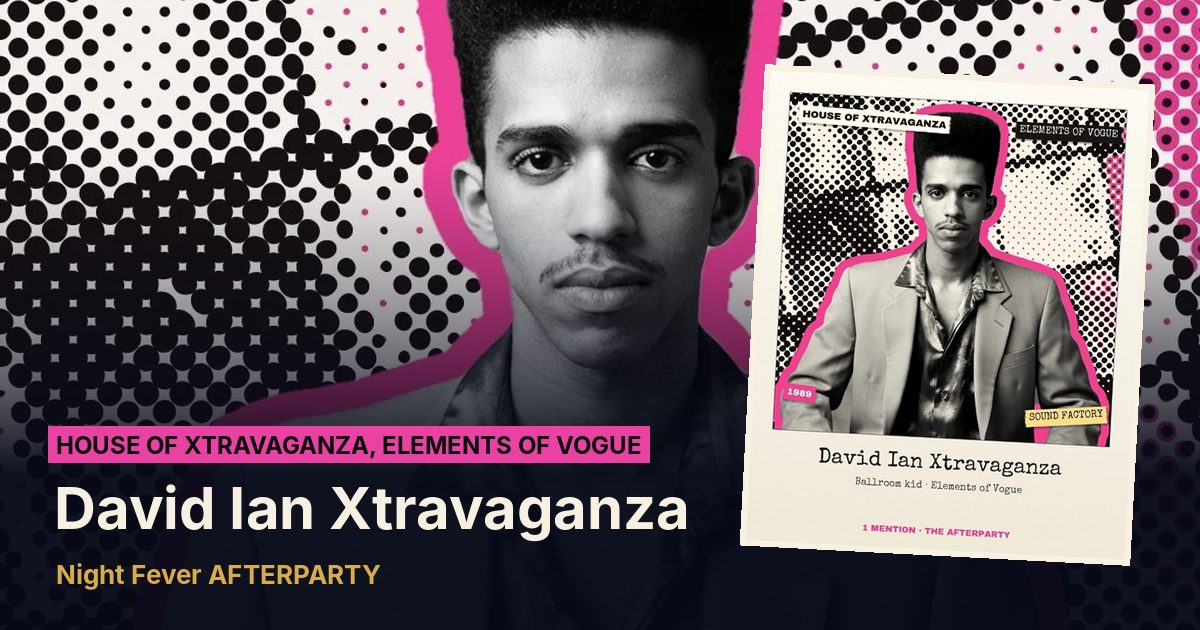
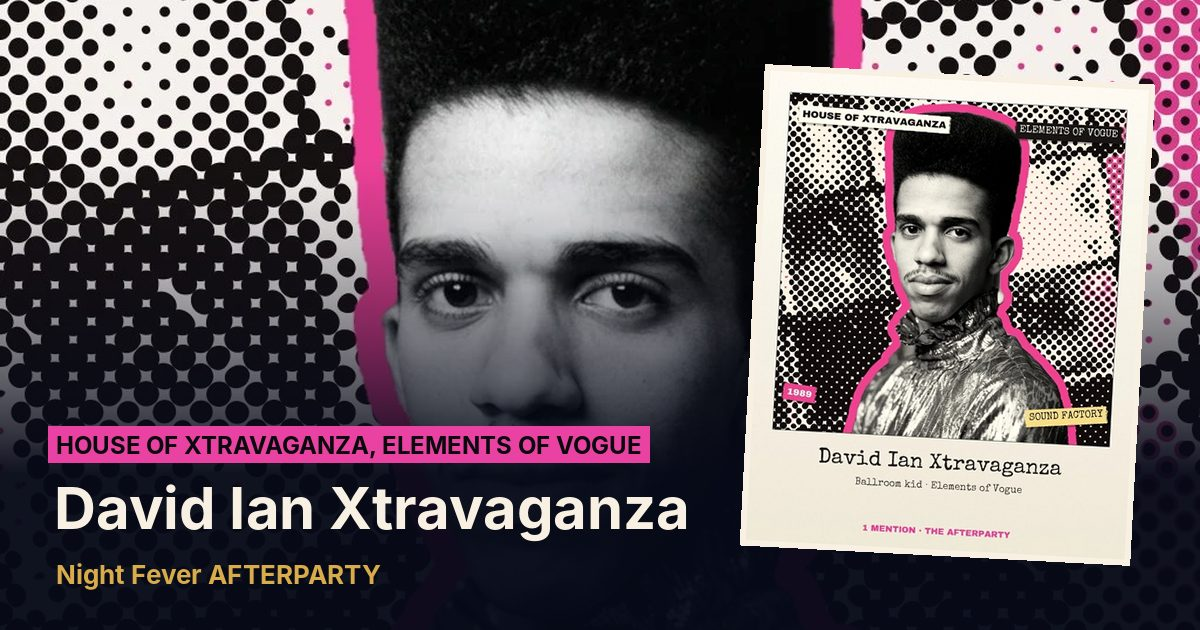
David Ian Xtravaganza: polaroid B (Lisa's pick)
Claude-Session: https://claude.ai/code/session_0192FesrRC8W7yiuXJ32r3NS

Changed region(s): [[0.185, 0.0, 0.925, 0.7238]]

diff --git a/src/data/person-portraits.ts b/src/data/person-portraits.ts
@@ -1117,7 +1117,7 @@ export const PERSON_PORTRAITS: Record<string, PersonPortrait> = {
   "paul-morrissey": { photo: paulMorrisseyPhoto, polaroid: paulMorrisseyPolaroid, focus: "30%", credit: "Illustration made with Gemini from the 1967 public-domain photo by James Kavallines, not a photo" },
   // Lisa: "house of xtravaganza needs a background header picture and a polaroid". No faces: an empty Harlem ballroom and the judges' table.
   "house-of-xtravaganza": { photo: houseOfXtravaganzaPhoto, phone: houseOfXtravaganzaPhotoPhone, polaroid: houseOfXtravaganzaPolaroid, focus: "50%", credit: "Header and polaroid: a Harlem ballroom before a ball and the judges' trophies, drawn for the AFTERPARTY - no people shown" },
-  // Venus: B (Lisa, 28 Nov 2026, "venus b"). David Ian: option A wired, Lisa picks A or B. Stephan: A only (three tries at a B failed).
+  // Venus and David Ian: B (Lisa, 28 Nov 2026, "venus b", "david b"). Stephan: A only (three tries at a B failed).
   "venus-xtravaganza": { photo: venusXtravaganzaPhoto, polaroid: venusXtravaganzaPolaroid, focus: "30%", credit: "Illustration made with Gemini, not a photo" },
   "david-ian-xtravaganza": { photo: davidIanXtravaganzaPhoto, polaroid: davidIanXtravaganzaPolaroid, focus: "30%", credit: "Illustration made with Gemini, not a photo" },
   "stephan-lupino": { photo: stephanLupinoPhoto, polaroid: stephanLupinoPolaroid, focus: "30%", credit: "Illustration made with Gemini, not a photo" },
